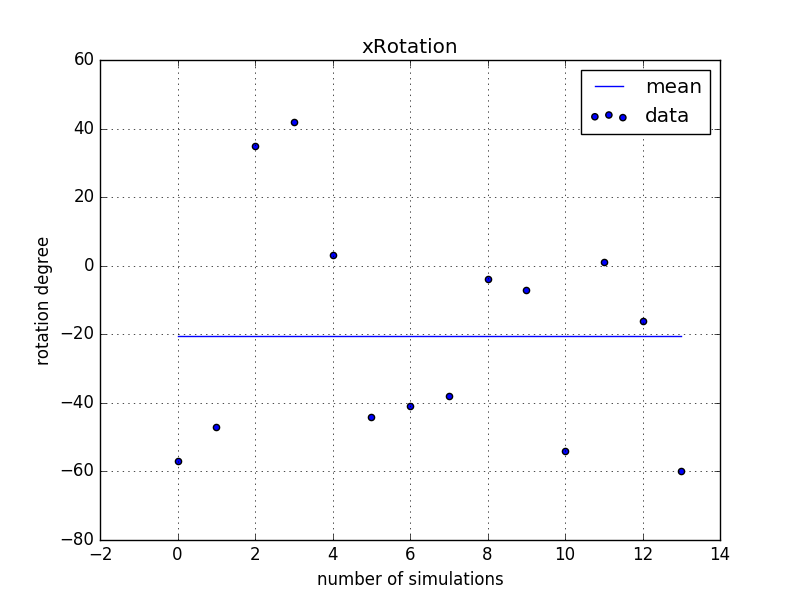
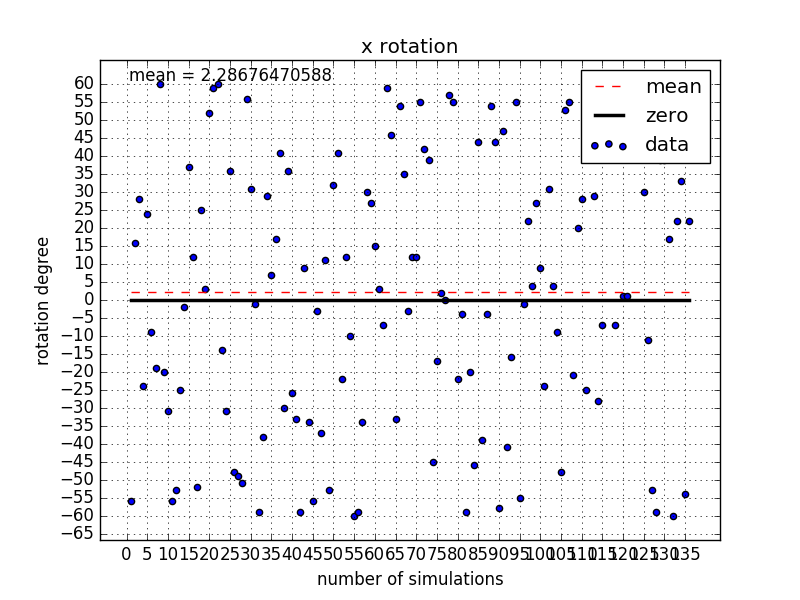
changes in randomGrid and plot analysis

diff --git a/functions.py b/functions.py
@@ -171,7 +171,7 @@ def automationGrid(Grid,Step,MoleculeName,BotMol,PathToSave,FileType):
 
 def randomGrid(Grid,MoleculeName,BotMol,PathToSave,FileType):
 #    rand = random.randint(100,150)
-    rand = random.randint(2,30)
+    rand = random.randint(100,150)
     randX = []
     randY = []
     randZ = []
@@ -186,28 +186,59 @@ def randomGrid(Grid,MoleculeName,BotMol,PathToSave,FileType):
     return([randX,randY,randZ,rand])
 
 def analyse(values):
-    print " x: "+str(values[0])
-    print " y: "+str(values[1])
-    print " z: "+str(values[2])
-    x = numpy.arange(0,values[3])
-    m = [numpy.average(values[0]) for i in values[0]]
+#    print " x: "+str(values[0])
+#    print " y: "+str(values[1])
+#    print " z: "+str(values[2])
+    x = numpy.arange(1,values[3]+1)
+    mx = [numpy.average(values[0]) for i in values[0]]
+    m1 = [0 for i in values[0]]
     fig,ax = plt.subplots()
     plt.xlabel('number of simulations')
     plt.ylabel('rotation degree')
-    plt.title('xRotation')
+    plt.title('x rotation')
     plt.grid(True)
-    print m
+    plt.text(0.5,61,'mean = %s'%mx[0])
+    plt.xticks(numpy.arange(0,values[3]+1,20))
+    plt.yticks(numpy.arange(-65,65,5))
     ax.scatter(x,values[0],label='data',marker='o')
-    ax.plot(x,m,label='mean')
+    ax.plot(x,mx,label='mean',linestyle='--',c='red')
+    ax.plot(x,m1,label='zero',linestyle='solid',linewidth=2.5 ,c='black')
     ax.legend(loc='upper right')
     plt.savefig("xRotation.png")
-#    plt.scatter(numpy.arange(0,values[3]),values[1])
-#    plt.savefig("yRotation.png")
-#    plt.scatter(numpy.arange(0,values[3]),values[2])
-#    plt.savefig("zRotation.png")
-    print "Average x-rotation:"+str(numpy.average(values[0]))
-    print "Average y-rotation:"+str(numpy.average(values[1]))
-    print "Average z-rotation:"+str(numpy.average(values[2]))
+
+    my = [numpy.average(values[1]) for i in values[1]]
+    fig,ax = plt.subplots()
+    plt.xlabel('number of simulations')
+    plt.ylabel('rotation degree')
+    plt.title('y rotation')
+    plt.grid(True)
+    plt.text(0.5,91,'mean = %s'%my[0])
+    plt.xticks(numpy.arange(0,values[3]+1,20))
+    plt.yticks(numpy.arange(-90,90,10))
+    ax.scatter(x,values[1],label='data',marker='o')
+    ax.plot(x,my,label='mean',linestyle='--',c='red')
+    ax.plot(x,m1,label='zero',linestyle='solid',linewidth=2.5 ,c='black')
+    ax.legend(loc='upper right')
+    plt.savefig("yRotation.png")
+
+    mz = [numpy.average(values[2]) for i in values[2]]
+    fig,ax = plt.subplots()
+    plt.xlabel('number of simulations')
+    plt.ylabel('rotation degree')
+    plt.title('z rotation')
+    plt.grid(True)
+    plt.text(0.5,61,'mean = %s'%mz[0])
+    plt.xticks(numpy.arange(0,values[3]+1,20))
+    plt.yticks(numpy.arange(-65,65,5))
+    ax.scatter(x,values[2],label='data',marker='o')
+    ax.plot(x,mz,label='mean',linestyle='--',c='red')
+    ax.plot(x,m1,label='zero',linestyle='solid',linewidth=2.5 ,c='black')
+    ax.legend(loc='upper right')
+    plt.savefig("zRotation.png")
+
+#    print "Average x-rotation:"+str(numpy.average(values[0]))
+#    print "Average y-rotation:"+str(numpy.average(values[1]))
+#    print "Average z-rotation:"+str(numpy.average(values[2]))
 #    plt.show()
 
 

diff --git a/geometry_Br.py b/geometry_Br.py
@@ -23,7 +23,7 @@ try:
 #y: rotation on y-axis
 #z: rotation on z-axis
 #set 0 if no rotation on axis is needed
-    pathToSave = "/home/kim/save"
+    pathToSave = "/home/sergii/save"
     fileType  = "mol2"
     length=3
     width=3
